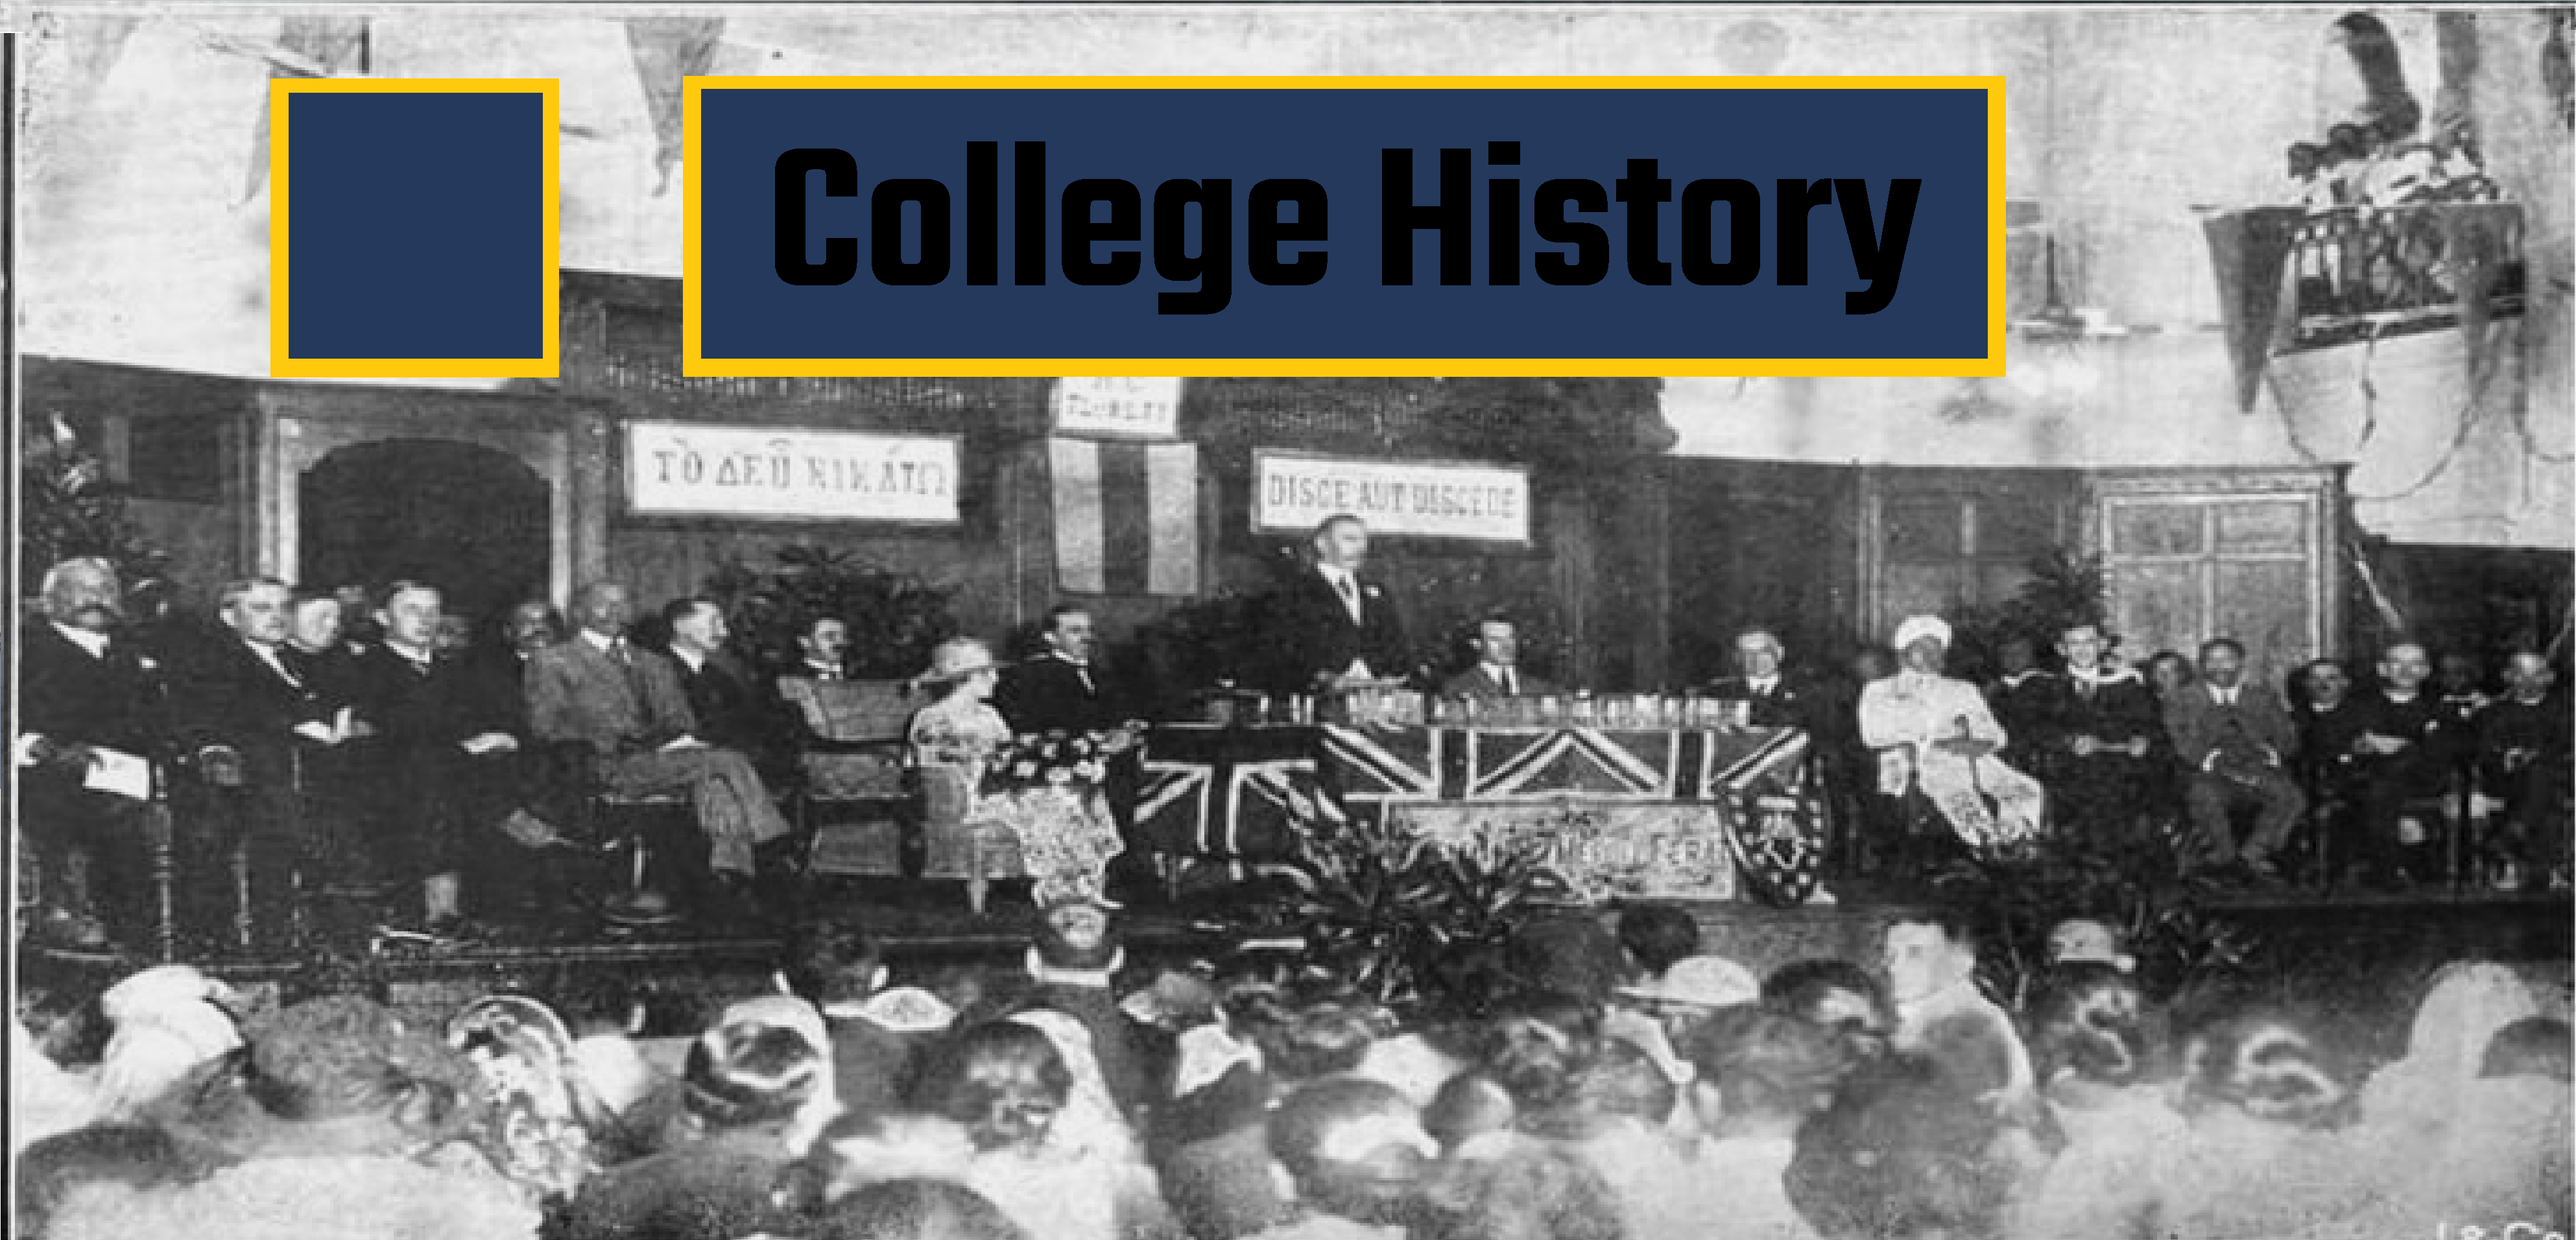
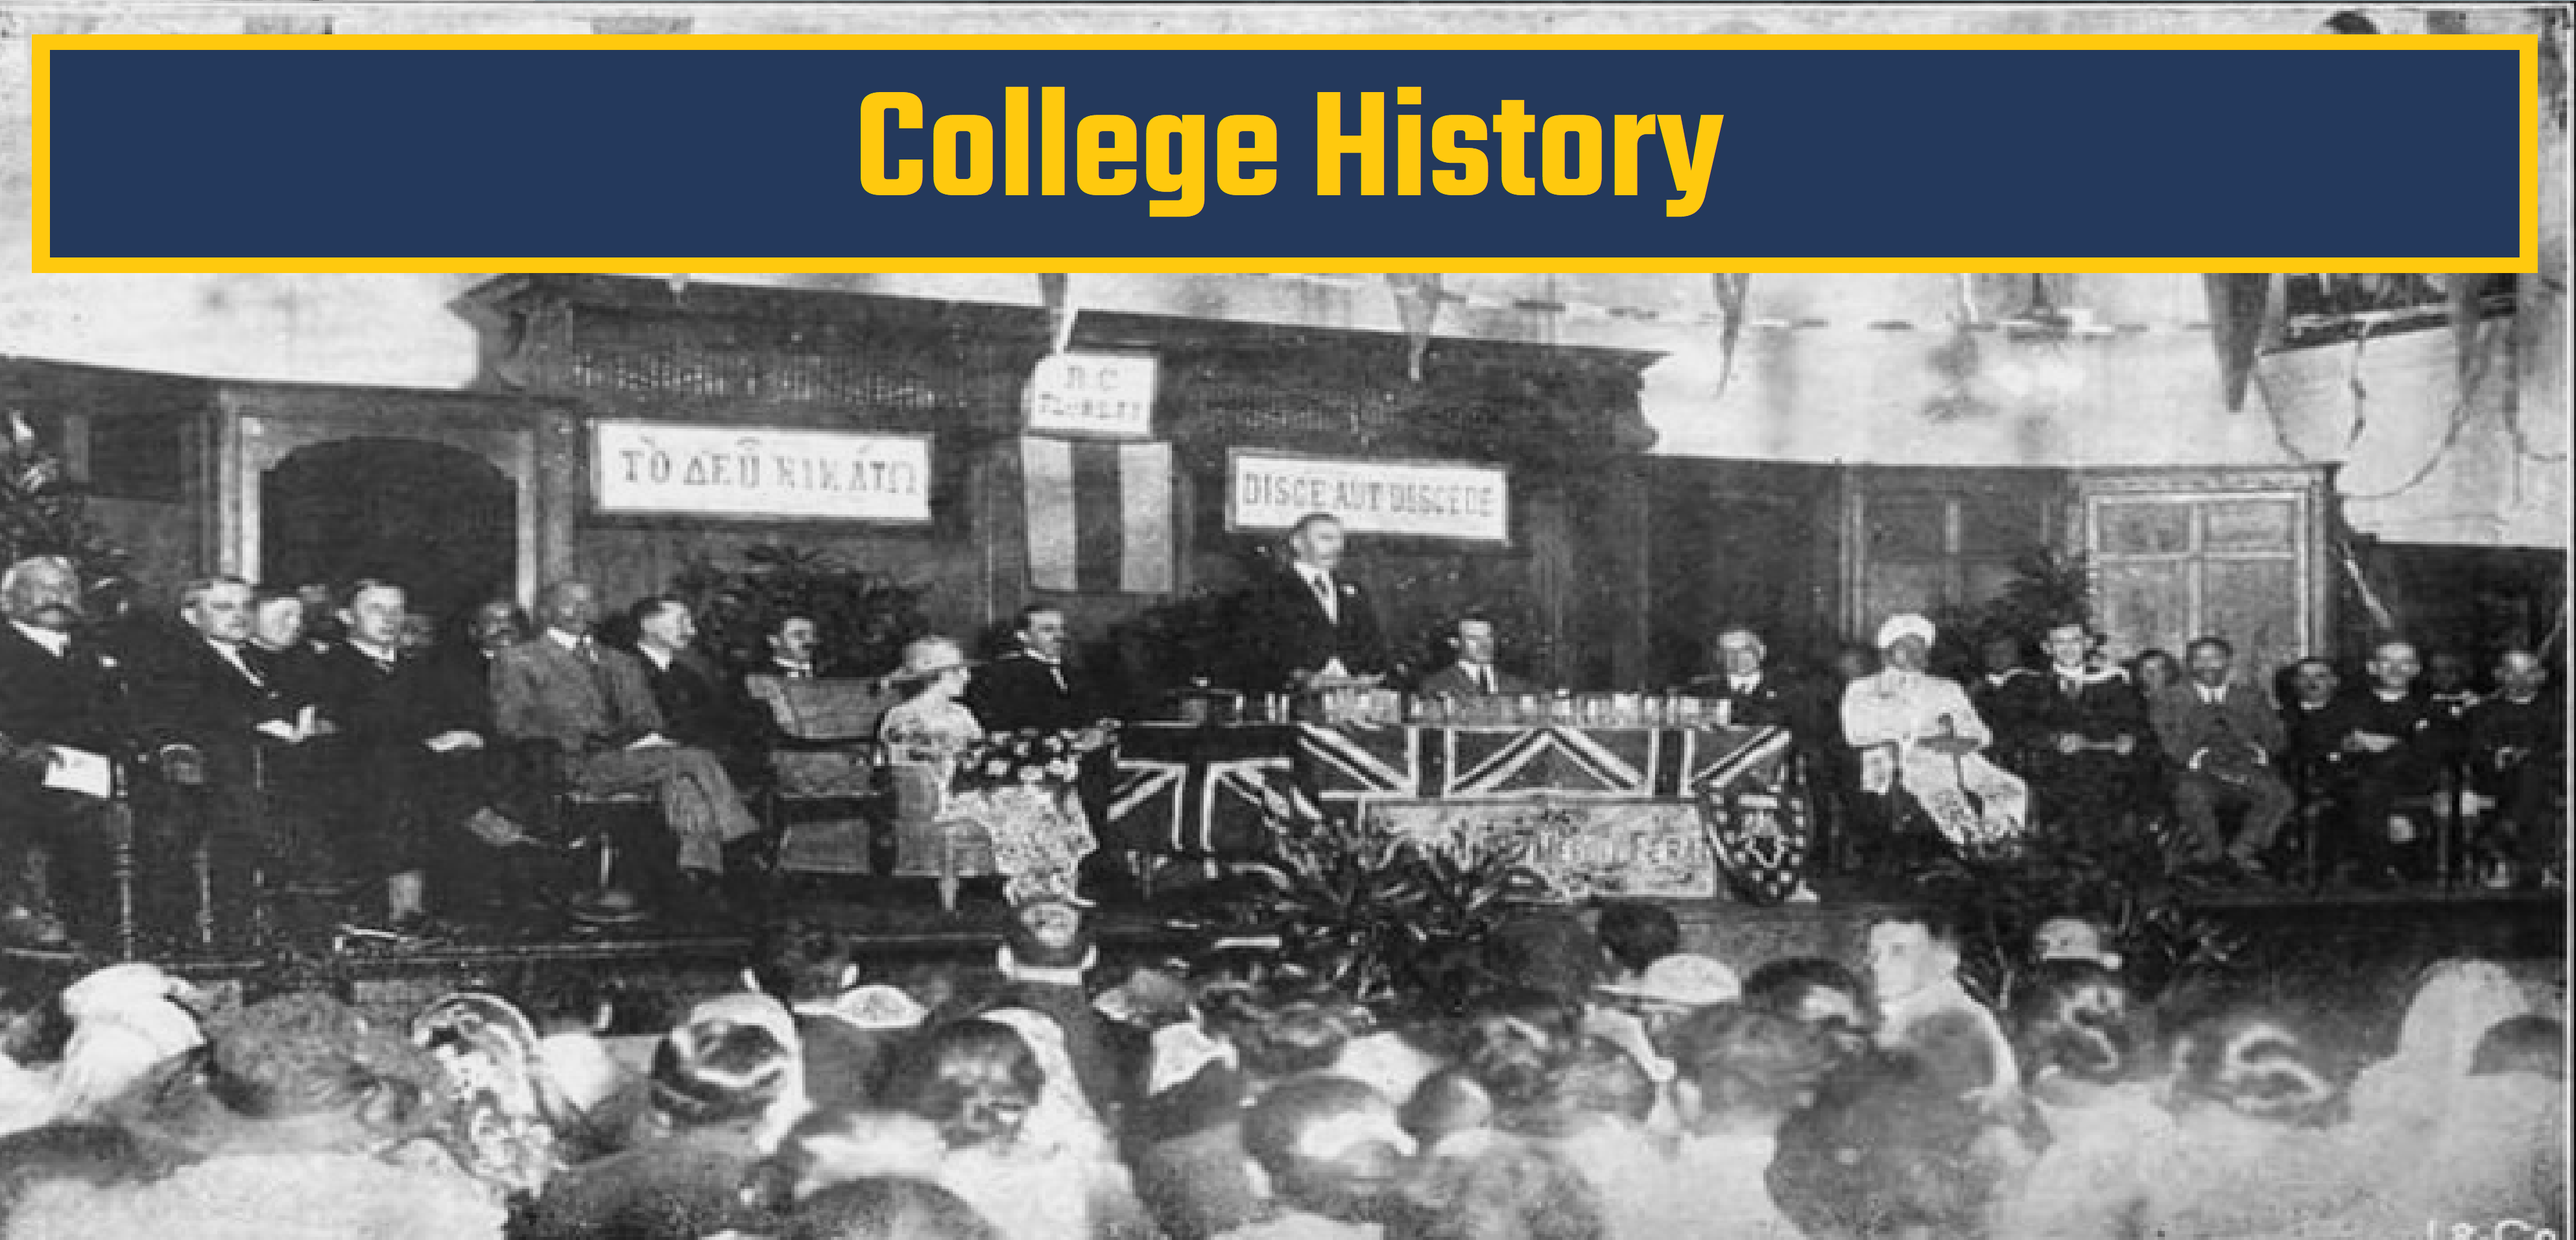
Made the history page responsive

diff --git a/style.css b/style.css
@@ -168,9 +168,12 @@ header .historyheader{
     padding-left: 183px;
 }
 
+
+
 section.history{
     background-color: #162338;
-    height: 1200px;
+    height: auto;
+    padding-bottom: 20px;
 }
 
 section.history p{
@@ -181,8 +184,8 @@ section.history p{
     padding: 20px 0px 0px 20px ;
 }
 section.history img{
-    width: 300px;
-    height: 300px;
+    width: 400px;
+    height: 400px;
     border-radius: 20px;
        
     margin: 15px;
@@ -199,4 +202,69 @@ ul{
 li{
     display: inline-block;
     margin:0 20px 0 0;
+}
+@media screen and (max-width: 1500px) {
+    header .historyheader{
+        width: auto;
+        height: 230px;
+        margin: 9px 0px 0px 0px;    
+        
+        
+        
+
+    }
+    
+  
+    
+}
+@media screen and (max-width: 900px) {
+    header .historyheader{
+        width: auto;
+        height: 100px;
+        margin: 9px 0px 0px 0px;    
+        
+        
+        
+
+    }
+    section.history{
+        width: auto;
+        height: auto;
+        margin: 9px 9px 9px 0px;
+
+    }
+    section.history{
+        margin-right: 9px;
+    }
+    
+     
+    
+}
+@media screen and (max-width: 600px) {
+    header .historyheader{
+        width: auto;
+        height: 60px;
+        margin: 9px 0px 0px 0px;    
+        
+        
+        
+
+    }
+    
+    
+}
+@media screen and (max-width: 500px) {
+    header .historyheader{
+        width: auto;
+        height: 40px;
+        margin: 9px 0px 0px 0px;    
+        
+        
+        
+
+    }
+    
+    
+    
+    
 }

diff --git a/history.html b/history.html
@@ -9,7 +9,7 @@
         <header>
             <nav class="historyheader">
                   
-                        <li class="logo"><a href="index.html">College Logo</a></li>
+                        
                         
                   
 
